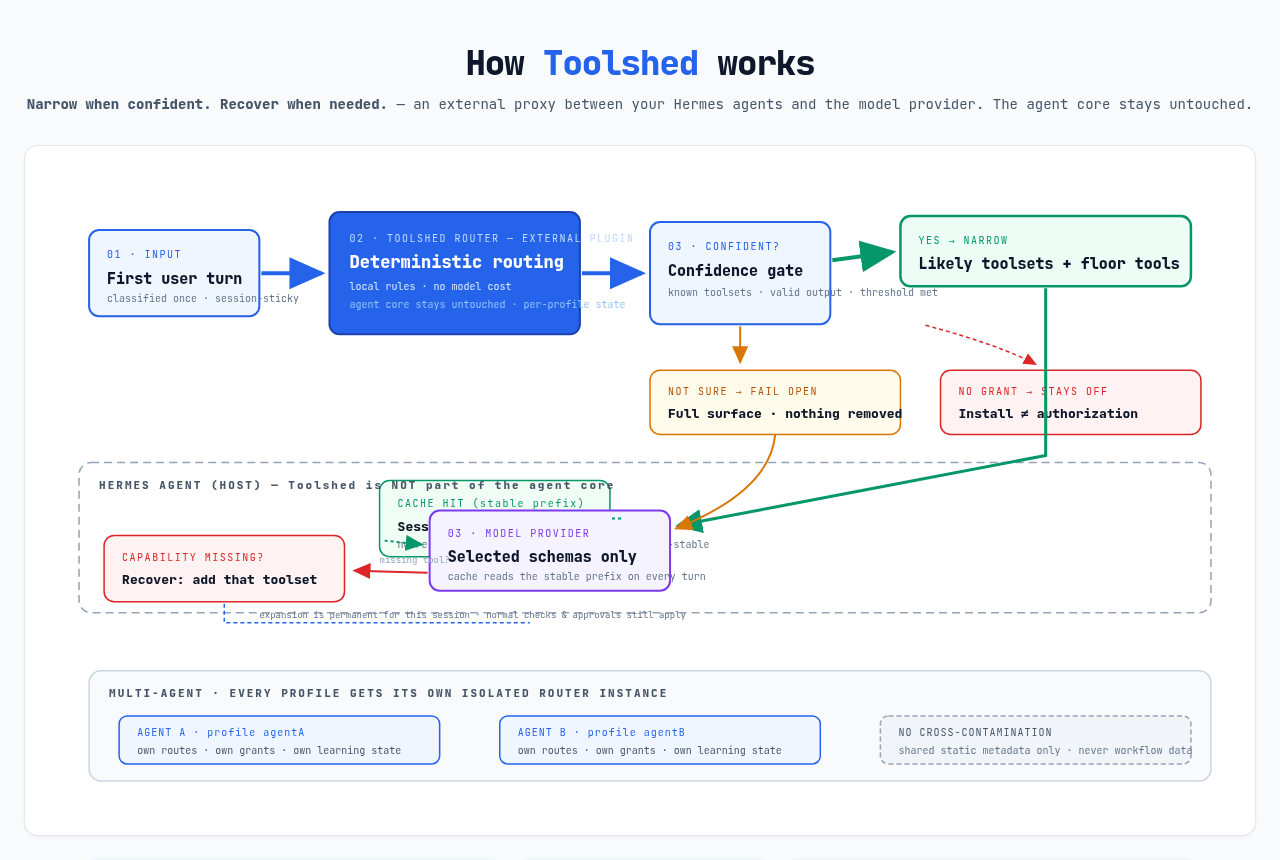
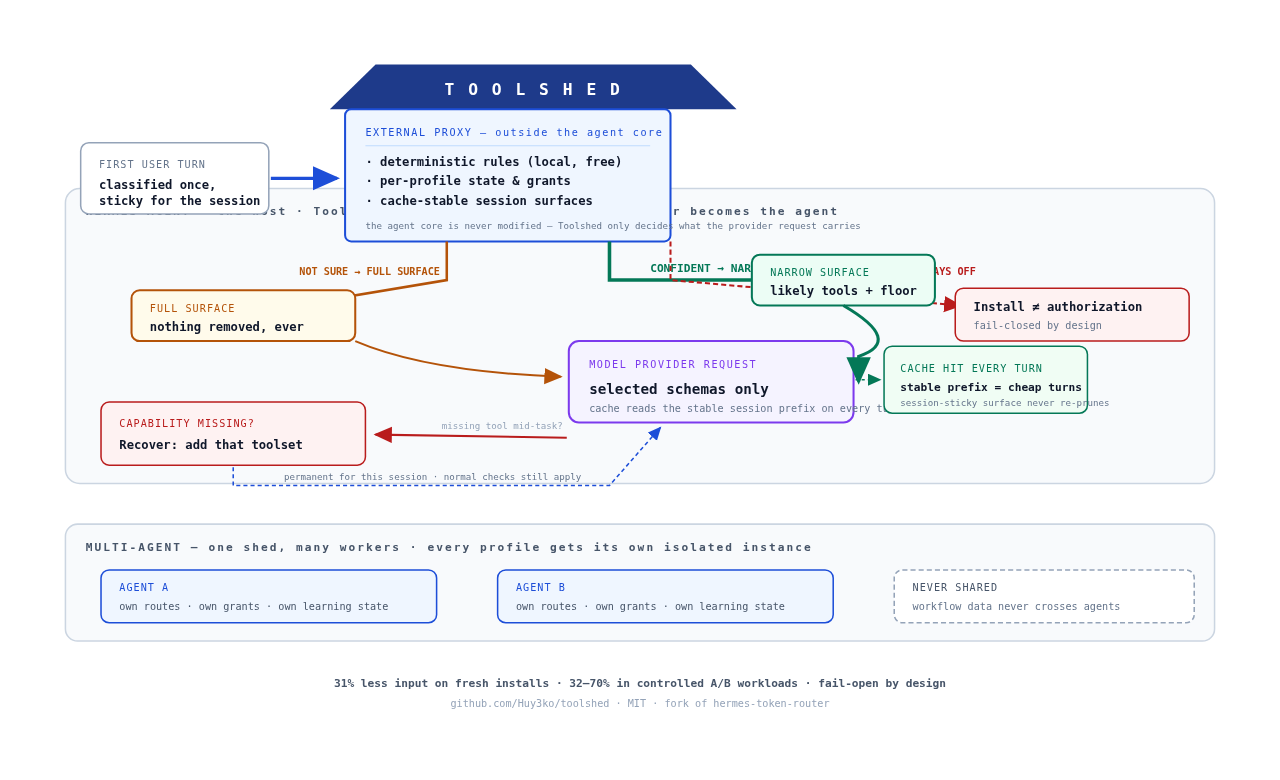
Hero v3: eigenes Shed-Motiv — Toolshed als Haus ÜBER dem Agenten (external sichtbar), helle Palette, 3 Exit-Pfade (narrow/fail-open/no-grant), Cache-Hit + Multi-Agent-Strip; weniger Text, mehr Eigenständigkeit

diff --git a/docs/how-toolshed-works.html b/docs/how-toolshed-works.html
@@ -2,174 +2,133 @@
 <html lang="en">
 <head>
 <meta charset="UTF-8">
-<title>How Toolshed Works — Adaptive Tool-Surface Proxy for Hermes</title>
+<title>How Toolshed Works</title>
 <link rel="preconnect" href="https://fonts.googleapis.com">
 <link href="https://fonts.googleapis.com/css2?family=JetBrains+Mono:wght@400;600;800&display=swap" rel="stylesheet">
 <style>
   * { margin:0; padding:0; box-sizing:border-box; }
-  body {
-    background:#f8fafc;
-    font-family:'JetBrains Mono',monospace;
-    color:#0f172a;
-    min-height:100vh;
-    padding:40px 24px;
-  }
-  .wrap { max-width:1240px; margin:0 auto; }
-  header { text-align:center; margin-bottom:32px; }
-  h1 { font-size:34px; font-weight:800; letter-spacing:-1px; color:#0f172a; }
-  h1 span { color:#2563eb; }
-  .sub { color:#475569; font-size:14px; margin-top:10px; }
-  .card {
-    background:#ffffff;
-    border:1px solid #e2e8f0;
-    border-radius:14px;
-    padding:24px;
-    box-shadow:0 1px 3px rgba(15,23,42,0.06);
-  }
-  svg { width:100%; height:auto; display:block; }
-  .trustbar { display:flex; gap:12px; justify-content:center; flex-wrap:wrap; margin-top:22px; }
-  .trust {
-    background:#eff6ff; color:#1d4ed8;
-    border-radius:999px; padding:7px 16px; font-size:11px;
-  }
-  .trust.neutral { background:#f1f5f9; color:#475569; }
+  body { background:#ffffff; font-family:'JetBrains Mono',monospace; color:#0f172a; padding:36px 24px; }
+  .wrap { max-width:1200px; margin:0 auto; }
 </style>
 </head>
 <body>
 <div class="wrap">
-
-<header>
-  <h1>How <span>Toolshed</span> works</h1>
-  <p class="sub"><b>Narrow when confident. Recover when needed.</b> — an external proxy between your Hermes agents and the model provider. The agent core stays untouched.</p>
-</header>
-
-<div class="card">
-<svg viewBox="0 0 1180 640" xmlns="http://www.w3.org/2000/svg">
+<svg viewBox="0 0 1180 700" xmlns="http://www.w3.org/2000/svg" font-family="'JetBrains Mono', monospace">
   <defs>
-    <marker id="aBlue" markerWidth="10" markerHeight="10" refX="8" refY="4" orient="auto">
-      <path d="M0,0 L9,4 L0,8 Z" fill="#2563eb"/>
-    </marker>
-    <marker id="aGreen" markerWidth="10" markerHeight="10" refX="8" refY="4" orient="auto">
-      <path d="M0,0 L9,4 L0,8 Z" fill="#059669"/>
-    </marker>
-    <marker id="aAmber" markerWidth="10" markerHeight="10" refX="8" refY="4" orient="auto">
-      <path d="M0,0 L9,4 L0,8 Z" fill="#d97706"/>
-    </marker>
-    <marker id="aRose" markerWidth="10" markerHeight="10" refX="8" refY="4" orient="auto">
-      <path d="M0,0 L9,4 L0,8 Z" fill="#dc2626"/>
-    </marker>
+    <marker id="ab" markerWidth="10" markerHeight="10" refX="8" refY="4" orient="auto"><path d="M0,0 L9,4 L0,8 Z" fill="#1d4ed8"/></marker>
+    <marker id="ag" markerWidth="10" markerHeight="10" refX="8" refY="4" orient="auto"><path d="M0,0 L9,4 L0,8 Z" fill="#047857"/></marker>
+    <marker id="aa" markerWidth="10" markerHeight="10" refX="8" refY="4" orient="auto"><path d="M0,0 L9,4 L0,8 Z" fill="#b45309"/></marker>
+    <marker id="ar" markerWidth="10" markerHeight="10" refX="8" refY="4" orient="auto"><path d="M0,0 L9,4 L0,8 Z" fill="#b91c1c"/></marker>
+    <marker id="as" markerWidth="10" markerHeight="10" refX="8" refY="4" orient="auto"><path d="M0,0 L9,4 L0,8 Z" fill="#64748b"/></marker>
   </defs>
 
-  <!-- ================= MAIN PATH (dominant, top row) ================= -->
+  <!-- ================= HERMES HOST BOUNDARY (the agent's home) ================= -->
+  <rect x="25" y="150" width="1130" height="290" rx="14" fill="#f8fafc" stroke="#cbd5e1" stroke-width="1.5"/>
+  <text x="45" y="176" fill="#475569" font-size="11" font-weight="600" letter-spacing="2">HERMES AGENT — the host · Toolshed lives here as a plugin, but never becomes the agent</text>
 
-  <!-- 01 INPUT -->
-  <rect x="40" y="60" width="170" height="86" rx="10" fill="#eff6ff" stroke="#2563eb" stroke-width="2"/>
-  <text x="58" y="88" fill="#2563eb" font-size="10" letter-spacing="1.5">01 · INPUT</text>
-  <text x="58" y="114" fill="#0f172a" font-size="15" font-weight="800">First user turn</text>
-  <text x="58" y="132" fill="#64748b" font-size="10">classified once · session-sticky</text>
-
-  <!-- 02 ROUTER (external!) -->
-  <rect x="280" y="42" width="250" height="122" rx="10" fill="#2563eb" stroke="#1e40af" stroke-width="2"/>
-  <text x="300" y="72" fill="#bfdbfe" font-size="10" letter-spacing="1.5">02 · TOOLSHED ROUTER — EXTERNAL PLUGIN</text>
-  <text x="300" y="98" fill="#ffffff" font-size="17" font-weight="800">Deterministic routing</text>
-  <text x="300" y="120" fill="#dbeafe" font-size="10">local rules · no model cost</text>
-  <text x="300" y="138" fill="#93c5fd" font-size="10">agent core stays untouched · per-profile state</text>
-
-  <!-- 03 DECIDE -->
-  <rect x="600" y="52" width="180" height="102" rx="10" fill="#eff6ff" stroke="#2563eb" stroke-width="2"/>
-  <text x="618" y="80" fill="#2563eb" font-size="10" letter-spacing="1.5">03 · CONFIDENT?</text>
-  <text x="618" y="106" fill="#0f172a" font-size="15" font-weight="800">Confidence gate</text>
-  <text x="618" y="126" fill="#64748b" font-size="10">known toolsets · valid output · threshold met</text>
-
-  <!-- NARROW -->
-  <rect x="850" y="46" width="290" height="70" rx="10" fill="#ecfdf5" stroke="#059669" stroke-width="2.5"/>
-  <text x="868" y="74" fill="#059669" font-size="10" letter-spacing="1.5">YES → NARROW</text>
-  <text x="868" y="99" fill="#0f172a" font-size="15" font-weight="800">Likely toolsets + floor tools</text>
-
-  <!-- MAIN FLOW ARROWS (thick) -->
-  <line x1="212" y1="103" x2="272" y2="103" stroke="#2563eb" stroke-width="4" marker-end="url(#aBlue)"/>
-  <line x1="532" y1="103" x2="592" y2="103" stroke="#2563eb" stroke-width="4" marker-end="url(#aBlue)"/>
-  <line x1="782" y1="90" x2="842" y2="82" stroke="#059669" stroke-width="4" marker-end="url(#aGreen)"/>
-
-  <!-- ================= EXCEPTIONS (secondary row, lighter) ================= -->
-
-  <!-- NO → FAIL OPEN -->
-  <rect x="600" y="200" width="250" height="64" rx="10" fill="#fffbeb" stroke="#d97706" stroke-width="1.5"/>
-  <text x="618" y="225" fill="#b45309" font-size="10" letter-spacing="1.5">NOT SURE → FAIL OPEN</text>
-  <text x="618" y="248" fill="#0f172a" font-size="13" font-weight="700">Full surface · nothing removed</text>
-  <path d="M 690 156 L 690 192" fill="none" stroke="#d97706" stroke-width="2" marker-end="url(#aAmber)"/>
-
-  <!-- NO GRANT → OFF -->
-  <rect x="890" y="200" width="260" height="64" rx="10" fill="#fef2f2" stroke="#dc2626" stroke-width="1.5"/>
-  <text x="908" y="225" fill="#dc2626" font-size="10" letter-spacing="1.5">NO GRANT → STAYS OFF</text>
-  <text x="908" y="248" fill="#0f172a" font-size="13" font-weight="700">Install ≠ authorization</text>
-  <path d="M 875 155 Q 950 175 985 194" fill="none" stroke="#dc2626" stroke-width="1.5" stroke-dasharray="4 3" marker-end="url(#aRose)"/>
-
-  <!-- ================= PROVIDER ROW (with cache) ================= -->
-
-  <!-- Cache hit box -->
-  <rect x="330" y="310" width="230" height="76" rx="10" fill="#f0fdf4" stroke="#059669" stroke-width="1.5"/>
-  <text x="348" y="336" fill="#059669" font-size="10" letter-spacing="1.5">CACHE HIT (stable prefix)</text>
-  <text x="348" y="360" fill="#0f172a" font-size="13" font-weight="700">Session-sticky surface</text>
-  <text x="348" y="377" fill="#64748b" font-size="10">no re-pruning mid-session → prefix stays byte-stable</text>
-
-  <!-- HERMES AGENT (the host) boundary -->
-  <rect x="30" y="292" width="1130" height="150" rx="12" fill="none" stroke="#94a3b8" stroke-width="1.5" stroke-dasharray="8 5"/>
-  <text x="50" y="318" fill="#475569" font-size="11" font-weight="700" letter-spacing="2">HERMES AGENT (HOST) — Toolshed is NOT part of the agent core</text>
-
-  <!-- 04 MODEL -->
-  <rect x="380" y="340" width="240" height="80" rx="10" fill="#f5f3ff" stroke="#7c3aed" stroke-width="2"/>
-  <text x="398" y="366" fill="#7c3aed" font-size="10" letter-spacing="1.5">03 · MODEL PROVIDER</text>
-  <text x="398" y="391" fill="#0f172a" font-size="15" font-weight="800">Selected schemas only</text>
-  <text x="398" y="409" fill="#64748b" font-size="10">cache reads the stable prefix on every turn</text>
-
-  <!-- arrows into model -->
-  <path d="M 995 118 L 995 285 L 628 355" fill="none" stroke="#059669" stroke-width="3" marker-end="url(#aGreen)"/>
-  <path d="M 725 264 Q 720 320 626 358" fill="none" stroke="#d97706" stroke-width="2" marker-end="url(#aAmber)"/>
-  <!-- cache -> model -->
-  <line x1="562" y1="348" x2="572" y2="348" stroke="#059669" stroke-width="2" stroke-dasharray="3 3"/>
-  <line x1="335" y1="370" x2="372" y2="374" stroke="#059669" stroke-width="2" stroke-dasharray="3 3" marker-end="url(#aGreen)"/>
-
-  <!-- ================= RECOVERY (bottom left inside host) ================= -->
-  <rect x="55" y="365" width="240" height="66" rx="10" fill="#fef2f2" stroke="#dc2626" stroke-width="1.5"/>
-  <text x="73" y="390" fill="#dc2626" font-size="10" letter-spacing="1.5">CAPABILITY MISSING?</text>
-  <text x="73" y="413" fill="#0f172a" font-size="13" font-weight="700">Recover: add that toolset</text>
-  <path d="M 378 402 L 305 400" fill="none" stroke="#dc2626" stroke-width="2" marker-end="url(#aRose)"/>
-  <text x="330" y="392" fill="#94a3b8" font-size="9">missing tool?</text>
-  <!-- recovery loop back to model -->
-  <path d="M 175 433 L 175 452 L 480 452" fill="none" stroke="#2563eb" stroke-width="1.5" stroke-dasharray="4 3"/>
-  <text x="210" y="447" fill="#64748b" font-size="9">expansion is permanent for this session · normal checks &amp; approvals still apply</text>
-
-  <!-- MULTI-AGENT strip (bottom) -->
-  <g font-family="'JetBrains Mono', monospace" font-size="10">
-    <rect x="40" y="500" width="1120" height="110" rx="12" fill="#f8fafc" stroke="#cbd5e1" stroke-width="1.5"/>
-    <text x="60" y="526" fill="#475569" font-size="11" font-weight="700" letter-spacing="2">MULTI-AGENT · EVERY PROFILE GETS ITS OWN ISOLATED ROUTER INSTANCE</text>
-
-    <rect x="70" y="545" width="320" height="48" rx="8" fill="#eff6ff" stroke="#2563eb" stroke-width="1.5"/>
-    <text x="88" y="565" fill="#2563eb" font-size="10" letter-spacing="1">AGENT A · profile agentA</text>
-    <text x="88" y="583" fill="#475569" font-size="10">own routes · own grants · own learning state</text>
-
-    <rect x="450" y="545" width="320" height="48" rx="8" fill="#eff6ff" stroke="#2563eb" stroke-width="1.5"/>
-    <text x="468" y="565" fill="#2563eb" font-size="10" letter-spacing="1">AGENT B · profile agentB</text>
-    <text x="468" y="583" fill="#475569" font-size="10">own routes · own grants · own learning state</text>
-
-    <rect x="830" y="545" width="310" height="48" rx="8" fill="#f1f5f9" stroke="#94a3b8" stroke-width="1.5" stroke-dasharray="5 3"/>
-    <text x="848" y="565" fill="#475569" font-size="10" letter-spacing="1">NO CROSS-CONTAMINATION</text>
-    <text x="848" y="583" fill="#64748b" font-size="10">shared static metadata only · never workflow data</text>
+  <!-- ================= EXTERNAL: THE SHED (above) ================= -->
+  <!-- The shed = Toolshed's own space OUTSIDE the agent -->
+  <g>
+    <!-- roof -->
+    <polygon points="330,28 640,28 685,72 285,72" fill="#1e3a8a"/>
+    <text x="485" y="58" fill="#ffffff" font-size="16" font-weight="800" text-anchor="middle" letter-spacing="2">T O O L S H E D</text>
+    <!-- body -->
+    <rect x="300" y="72" width="320" height="130" rx="6" fill="#eff6ff" stroke="#1d4ed8" stroke-width="2"/>
+    <text x="320" y="98" fill="#1d4ed8" font-size="10" letter-spacing="1.5">EXTERNAL PROXY — outside the agent core</text>
+    <line x1="320" y1="108" x2="600" y2="108" stroke="#bfdbfe" stroke-width="1"/>
+    <text x="320" y="128" fill="#0f172a" font-size="12" font-weight="700">· deterministic rules (local, free)</text>
+    <text x="320" y="147" fill="#0f172a" font-size="12" font-weight="700">· per-profile state &amp; grants</text>
+    <text x="320" y="166" fill="#0f172a" font-size="12" font-weight="700">· cache-stable session surfaces</text>
+    <text x="320" y="190" fill="#64748b" font-size="9">the agent core is never modified — Toolshed only decides what the provider request carries</text>
   </g>
 
-  <!-- TRUST BADGES bottom right of svg? no — keep clean -->
+  <!-- INPUT enters from left into the shed -->
+  <rect x="40" y="105" width="185" height="70" rx="8" fill="#ffffff" stroke="#94a3b8" stroke-width="1.5"/>
+  <text x="58" y="130" fill="#64748b" font-size="10" letter-spacing="1">FIRST USER TURN</text>
+  <text x="58" y="150" fill="#0f172a" font-size="12" font-weight="700">classified once,</text>
+  <text x="58" y="166" fill="#0f172a" font-size="12" font-weight="700">sticky for the session</text>
+  <line x1="227" y1="140" x2="292" y2="140" stroke="#1d4ed8" stroke-width="3" marker-end="url(#ab)"/>
+
+  <!-- Shed decides: two exits -->
+  <!-- EXIT 1: confident → narrow (goes down INTO the host) -->
+  <path d="M 560 202 L 560 240 L 780 240" fill="none" stroke="#047857" stroke-width="3.5" marker-end="url(#ag)"/>
+  <text x="600" y="232" fill="#047857" font-size="11" font-weight="700">CONFIDENT → NARROW</text>
+
+  <!-- EXIT 2: not sure → fail open (stays wide) -->
+  <path d="M 400 202 L 400 240 L 250 265" fill="none" stroke="#b45309" stroke-width="2.5" marker-end="url(#aa)"/>
+  <text x="255" y="235" fill="#b45309" font-size="10" font-weight="600">NOT SURE → FULL SURFACE</text>
+
+  <!-- EXIT 3: no grant → off (right side, dead end) -->
+  <path d="M 620 202 L 620 240 L 905 265" fill="none" stroke="#b91c1c" stroke-width="2" stroke-dasharray="5 3" marker-end="url(#ar)"/>
+  <text x="800" y="235" fill="#b91c1c" font-size="10" font-weight="600">NO GRANT → STAYS OFF</text>
+  <rect x="900" y="248" width="230" height="52" rx="8" fill="#fef2f2" stroke="#b91c1c" stroke-width="1.5"/>
+  <text x="918" y="270" fill="#0f172a" font-size="12" font-weight="700">Install ≠ authorization</text>
+  <text x="918" y="288" fill="#64748b" font-size="10">fail-closed by design</text>
+
+  <!-- ================= INSIDE THE HOST ================= -->
+
+  <!-- NARROW outcome lands here -->
+  <rect x="700" y="215" width="180" height="50" rx="8" fill="#ecfdf5" stroke="#047857" stroke-width="2"/>
+  <text x="718" y="236" fill="#047857" font-size="10" letter-spacing="1">NARROW SURFACE</text>
+  <text x="718" y="255" fill="#0f172a" font-size="12" font-weight="700">likely tools + floor</text>
+
+  <!-- FAIL OPEN lands here -->
+  <rect x="90" y="250" width="220" height="50" rx="8" fill="#fffbeb" stroke="#b45309" stroke-width="2"/>
+  <text x="108" y="271" fill="#b45309" font-size="10" letter-spacing="1">FULL SURFACE</text>
+  <text x="108" y="290" fill="#0f172a" font-size="12" font-weight="700">nothing removed, ever</text>
+
+  <!-- MODEL PROVIDER -->
+  <rect x="520" y="300" width="280" height="80" rx="10" fill="#f5f3ff" stroke="#7c3aed" stroke-width="2"/>
+  <text x="540" y="326" fill="#7c3aed" font-size="10" letter-spacing="1.5">MODEL PROVIDER REQUEST</text>
+  <text x="540" y="352" fill="#0f172a" font-size="14" font-weight="800">selected schemas only</text>
+  <text x="540" y="370" fill="#64748b" font-size="10">cache reads the stable session prefix on every turn</text>
+
+  <!-- narrow -> model -->
+  <path d="M 790 265 Q 850 300 805 315 L 805 340 " fill="none" stroke="#047857" stroke-width="3" marker-end="url(#ag)"/>
+
+  <!-- CACHE HIT annotation next to model -->
+  <rect x="830" y="305" width="200" height="66" rx="8" fill="#f0fdf4" stroke="#047857" stroke-width="1.5"/>
+  <text x="846" y="330" fill="#047857" font-size="10" letter-spacing="1">CACHE HIT EVERY TURN</text>
+  <text x="846" y="349" fill="#0f172a" font-size="11" font-weight="700">stable prefix = cheap turns</text>
+  <text x="846" y="364" fill="#64748b" font-size="9">session-sticky surface never re-prunes</text>
+  <line x1="802" y1="338" x2="826" y2="338" stroke="#047857" stroke-width="1.5" stroke-dasharray="3 3" marker-end="url(#ag)"/>
+
+  <!-- fail-open -> model -->
+  <path d="M 310 300 Q 380 330 512 335" fill="none" stroke="#b45309" stroke-width="2" marker-end="url(#aa)"/>
+
+  <!-- RECOVERY -->
+  <rect x="60" y="360" width="260" height="62" rx="8" fill="#fef2f2" stroke="#b91c1c" stroke-width="1.5"/>
+  <text x="78" y="384" fill="#b91c1c" font-size="10" letter-spacing="1">CAPABILITY MISSING?</text>
+  <text x="78" y="406" fill="#0f172a" font-size="12" font-weight="700">Recover: add that toolset</text>
+  <path d="M 518 395 L 330 392" fill="none" stroke="#b91c1c" stroke-width="2" marker-end="url(#ar)"/>
+  <text x="395" y="386" fill="#94a3b8" font-size="9">missing tool mid-task?</text>
+  <!-- loop back to model -->
+  <path d="M 190 424 L 190 442 L 560 442 L 610 385" fill="none" stroke="#1d4ed8" stroke-width="1.5" stroke-dasharray="4 3" marker-end="url(#ab)"/>
+  <text x="240" y="437" fill="#64748b" font-size="9">permanent for this session · normal checks still apply</text>
+
+  <!-- ================= MULTI-AGENT STRIP ================= -->
+  <rect x="25" y="480" width="1130" height="115" rx="12" fill="#f8fafc" stroke="#cbd5e1" stroke-width="1.5"/>
+  <text x="45" y="506" fill="#475569" font-size="11" font-weight="600" letter-spacing="2">MULTI-AGENT — one shed, many workers · every profile gets its own isolated instance</text>
+
+  <g font-size="10">
+    <rect x="60" y="525" width="330" height="52" rx="8" fill="#eff6ff" stroke="#1d4ed8" stroke-width="1.5"/>
+    <text x="78" y="546" fill="#1d4ed8" letter-spacing="1">AGENT A</text>
+    <text x="78" y="564" fill="#475569">own routes · own grants · own learning state</text>
+
+    <rect x="450" y="525" width="330" height="52" rx="8" fill="#eff6ff" stroke="#1d4ed8" stroke-width="1.5"/>
+    <text x="468" y="546" fill="#1d4ed8" letter-spacing="1">AGENT B</text>
+    <text x="468" y="564" fill="#475569">own routes · own grants · own learning state</text>
+
+    <rect x="840" y="525" width="295" height="52" rx="8" fill="#ffffff" stroke="#94a3b8" stroke-width="1.5" stroke-dasharray="5 3"/>
+    <text x="858" y="546" fill="#475569" letter-spacing="1">NEVER SHARED</text>
+    <text x="858" y="564" fill="#64748b">workflow data never crosses agents</text>
+  </g>
+
+  <!-- ================= TRUST LINE (bottom) ================= -->
+  <text x="590" y="640" fill="#475569" font-size="11" text-anchor="middle" font-weight="600">31% less input on fresh installs · 32–70% in controlled A/B workloads · fail-open by design</text>
+  <text x="590" y="660" fill="#94a3b8" font-size="10" text-anchor="middle">github.com/Huy3ko/toolshed · MIT · fork of hermes-token-router</text>
 
 </svg>
-</div>
-
-<div class="trustbar">
-  <div class="trust">31% less input tokens on fresh Hermes installs (n=1 canary)</div>
-  <div class="trust">32–70% in controlled A/B workloads</div>
-  <div class="trust neutral">fail-open by design · recovery proven in adversarial tests</div>
-  <div class="trust neutral">github.com/Huy3ko/toolshed · MIT</div>
-</div>
-
 </div>
 </body>
 </html>
